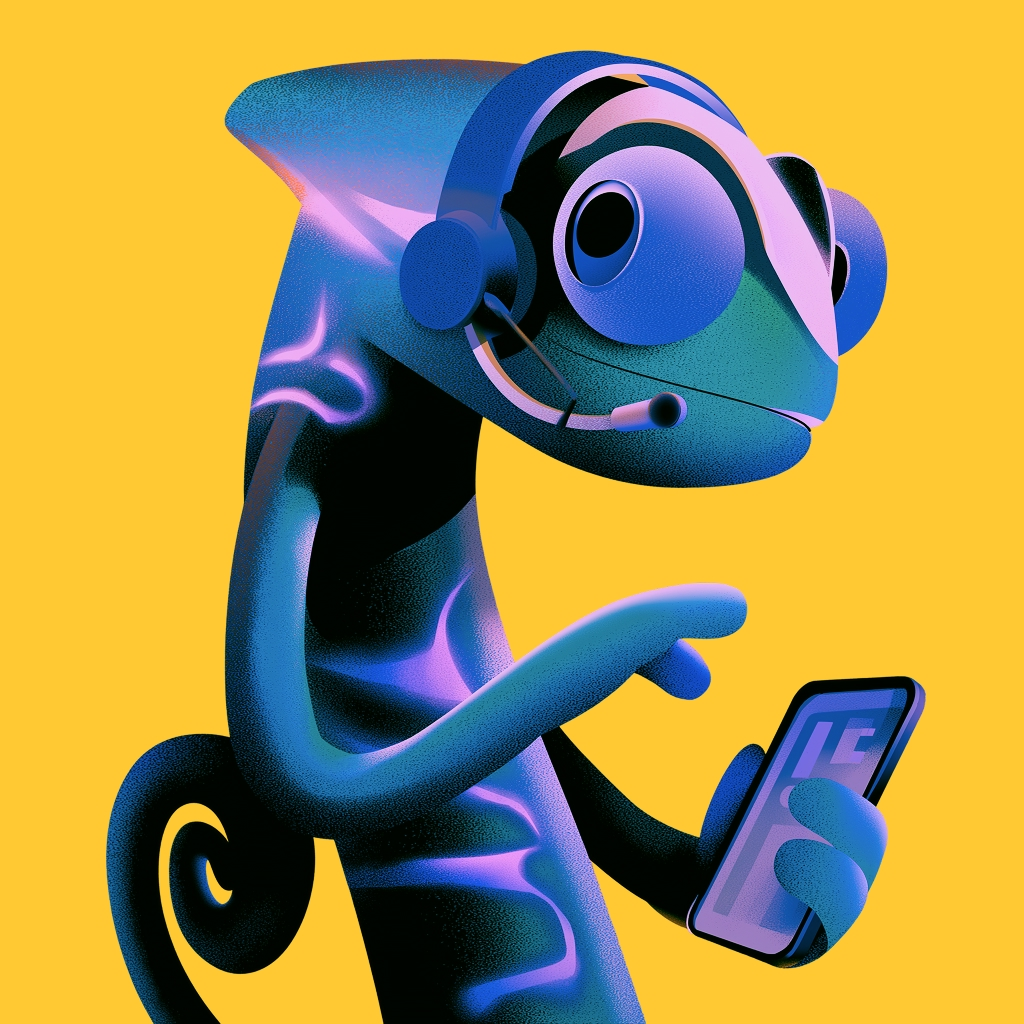
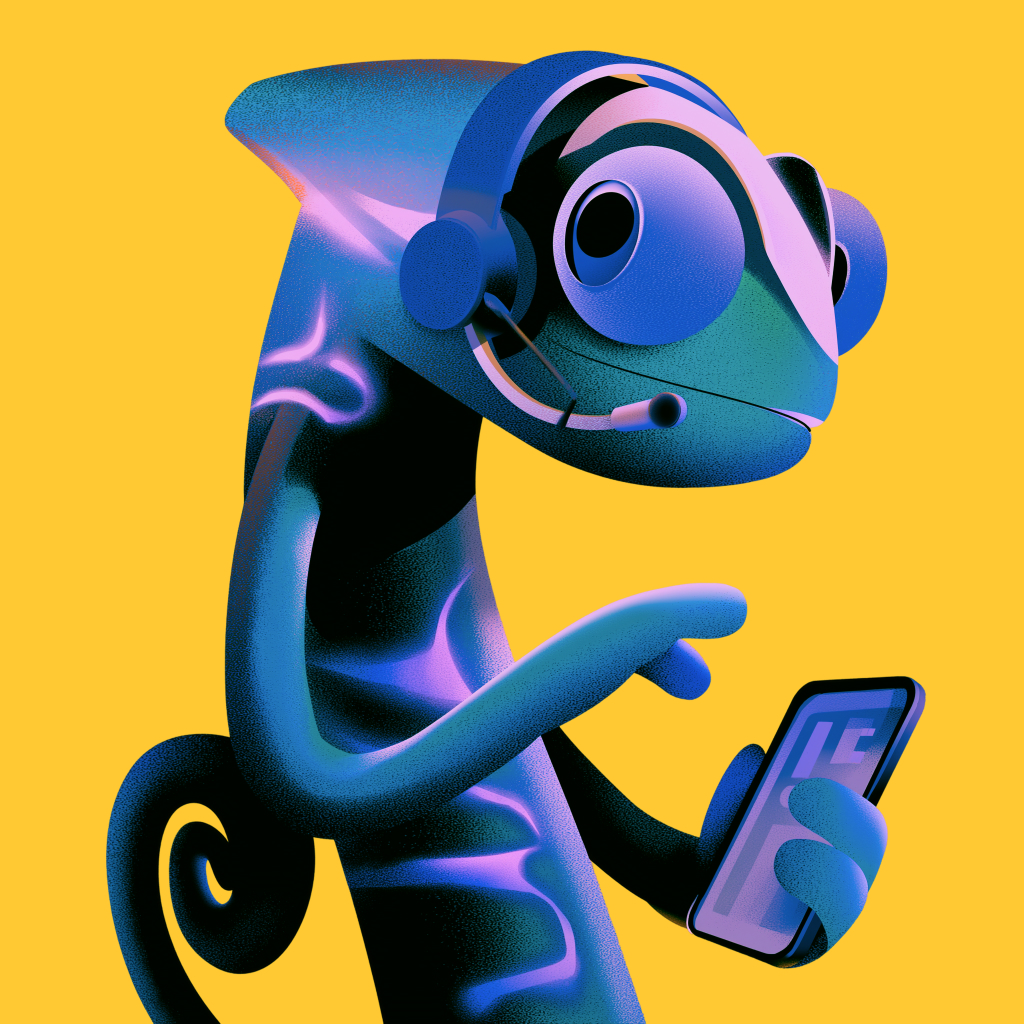
feat: Add colors to right-side dimensions and update result card images
- Add corresponding colors to SOLUTION, MACHINE, ALIGN, STABILIZE labels
- Update result card JPEG images with latest versions
- Color pairing: Signal↔Solution, Human↔Machine, Explore↔Align, Spark↔Stabilize

diff --git a/app/src/pages/Result.tsx b/app/src/pages/Result.tsx
@@ -561,7 +561,7 @@ export const Result = () => {
                     <span className="font-jetbrains-mono font-medium text-[12px] leading-[16px] text-[#f65af2]">
                       SIGNAL ({Math.round((displayScores.Signal / (displayScores.Signal + displayScores.Solution)) * 100)}%)
                     </span>
-                    <span className="font-jetbrains-mono font-medium text-[12px] leading-[16px] text-[#534150]">
+                    <span className="font-jetbrains-mono font-medium text-[12px] leading-[16px] text-[#00b5bd]">
                       SOLUTION ({Math.round((displayScores.Solution / (displayScores.Signal + displayScores.Solution)) * 100)}%)
                     </span>
                   </div>
@@ -579,7 +579,7 @@ export const Result = () => {
                     <span className="font-jetbrains-mono font-medium text-[12px] leading-[16px] text-[#00b5bd]">
                       HUMAN ({Math.round((displayScores.Human / (displayScores.Human + displayScores.Machine)) * 100)}%)
                     </span>
-                    <span className="font-jetbrains-mono font-medium text-[12px] leading-[16px] text-[#534150]">
+                    <span className="font-jetbrains-mono font-medium text-[12px] leading-[16px] text-[#8e5aff]">
                       MACHINE ({Math.round((displayScores.Machine / (displayScores.Human + displayScores.Machine)) * 100)}%)
                     </span>
                   </div>
@@ -597,7 +597,7 @@ export const Result = () => {
                     <span className="font-jetbrains-mono font-medium text-[12px] leading-[16px] text-[#8e5aff]">
                       EXPLORE ({Math.round((displayScores.Explore / (displayScores.Explore + displayScores.Align)) * 100)}%)
                     </span>
-                    <span className="font-jetbrains-mono font-medium text-[12px] leading-[16px] text-[#534150]">
+                    <span className="font-jetbrains-mono font-medium text-[12px] leading-[16px] text-[#f4bf28]">
                       ALIGN ({Math.round((displayScores.Align / (displayScores.Explore + displayScores.Align)) * 100)}%)
                     </span>
                   </div>
@@ -615,7 +615,7 @@ export const Result = () => {
                     <span className="font-jetbrains-mono font-medium text-[12px] leading-[16px] text-[#f4bf28]">
                       SPARK ({Math.round((displayScores.Spark / (displayScores.Spark + displayScores.Stabilize)) * 100)}%)
                     </span>
-                    <span className="font-jetbrains-mono font-medium text-[12px] leading-[16px] text-[#534150]">
+                    <span className="font-jetbrains-mono font-medium text-[12px] leading-[16px] text-[#f65af2]">
                       STABILIZE ({Math.round((displayScores.Stabilize / (displayScores.Spark + displayScores.Stabilize)) * 100)}%)
                     </span>
                   </div>
